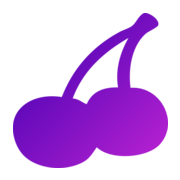
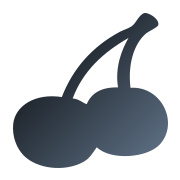
assets update

diff --git a/public/index.html b/public/index.html
@@ -13,8 +13,10 @@
     <link rel="apple-touch-icon" sizes="180x180" href="%PUBLIC_URL%/assets/apple-touch-icon.png">
     <link rel="icon" type="image/png" sizes="32x32" href="%PUBLIC_URL%/assets/favicon-32x32.png">
     <link rel="icon" type="image/png" sizes="16x16" href="%PUBLIC_URL%/assets/favicon-16x16.png">
-    <link rel="mask-icon" href="%PUBLIC_URL%/assets/safari-pinned-tab.svg" color="#5bbad5">
-    <link rel="manifest" href="%PUBLIC_URL%/manifest.json">
+    <link rel="manifest" href="%PUBLIC_URL%/site.webmanifest">
+    <link rel="mask-icon" href="%PUBLIC_URL%/assets/safari-pinned-tab.svg" color="#14191e">
+    <meta name="msapplication-TileColor" content="#da532c">
+    <meta name="theme-color" content="#ffffff">
     <link rel="preload" href="%PUBLIC_URL%/styles/style.css" as="style" onload="this.onload=null;this.rel='stylesheet'">
 </head>
 <body>
